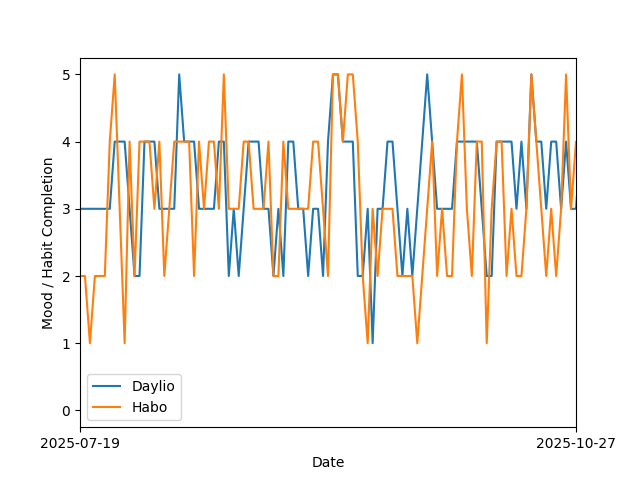
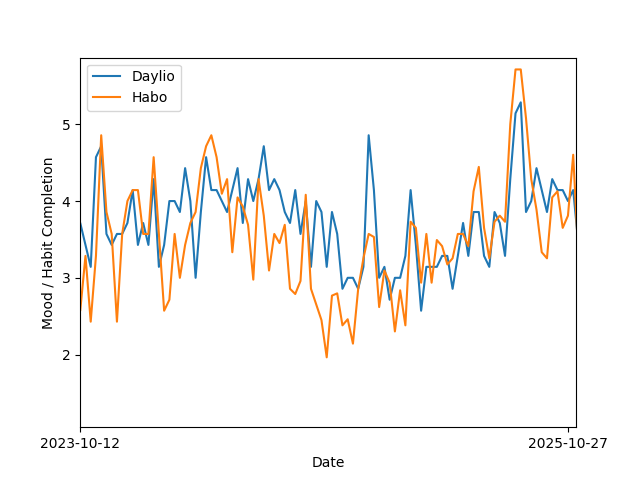
Add rolling avg to line plot

diff --git a/line.py b/line.py
@@ -1,4 +1,4 @@
-# VERSION = 0.1
+# VERSION = 0.2
 
 import analysis
 import habo
@@ -6,12 +6,20 @@ import daylio
 from datetime import datetime,timedelta
 import numpy as np
 
+def rolling_average(list):
+    CHUNK_SIZE=len(list)//100
+
+    newlist=[]
+    for i in range(0,len(list),CHUNK_SIZE):
+        newlist.append(sum(list[i:i+CHUNK_SIZE+1])/CHUNK_SIZE)
+
+    list[:]=newlist
+
 print("Analyzing data...")
 
 start_date = analysis.get_start_end_days()[0]
 end_date = analysis.get_start_end_days()[1]
 
-x = np.arange(0, analysis.get_total_days(), 1)
 y_daylio=[]
 y_habo=[]
 date=datetime.strptime(start_date, "%Y-%m-%d")
@@ -23,6 +31,10 @@ for i in range(analysis.get_total_days()):
 print("Generating line plot...")
 
 import matplotlib.pyplot as plt
+
+rolling_average(y_daylio)
+rolling_average(y_habo)
+x = np.arange(0, len(y_daylio), 1)
 
 plt.plot(x,y_daylio,label="Daylio")
 plt.plot(x,y_habo,label="Habo")

diff --git a/README.md b/README.md
@@ -11,7 +11,7 @@ Put Daylio and Habo export files in this directory named daylio.csv and habo.jso
 
 `line.py` and `scatter.py` use these files to generate plots:
 
-`line.py` generates a line graph of Habo habit completion (%) and Daylio mood over time.
+`line.py` generates a line graph of Habo habit completion (%) and Daylio mood over time with a rolling average.
 `scatter.py` generates a scatter plot of Habo habit completion (%) vs Daylio mood
 
 > [!NOTE]
